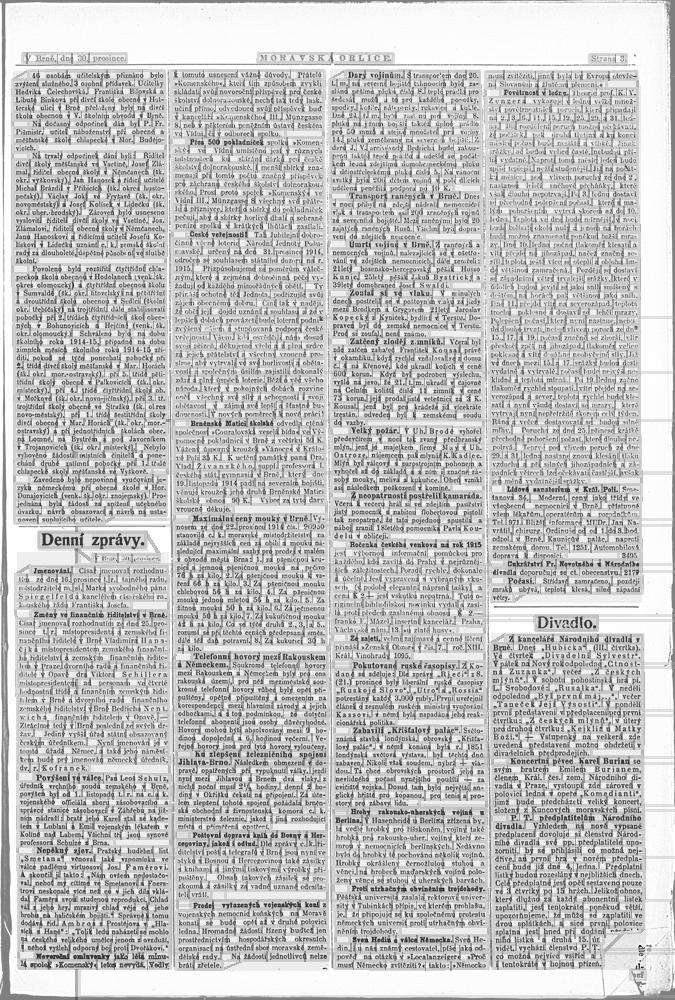
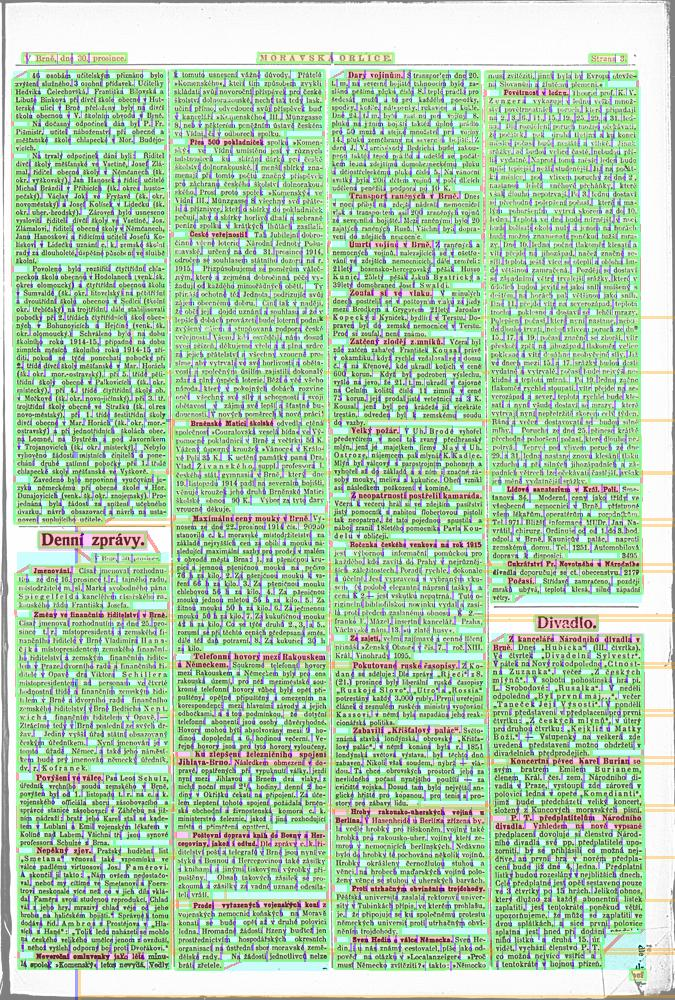
preserve colors in layout visualization

diff --git a/Scripts/vizMerge.py b/Scripts/vizMerge.py
@@ -47,7 +47,7 @@ def main():
     ratio = min(max_dim / background.width, max_dim / background.height, 1)
     new_size = (int(background.width * ratio), int(background.height * ratio))
     background = background.resize(new_size, Image.LANCZOS)
-    background = background.convert("L")  # grayscale
+    #background = background.convert("L")  # grayscale
         
 
 
